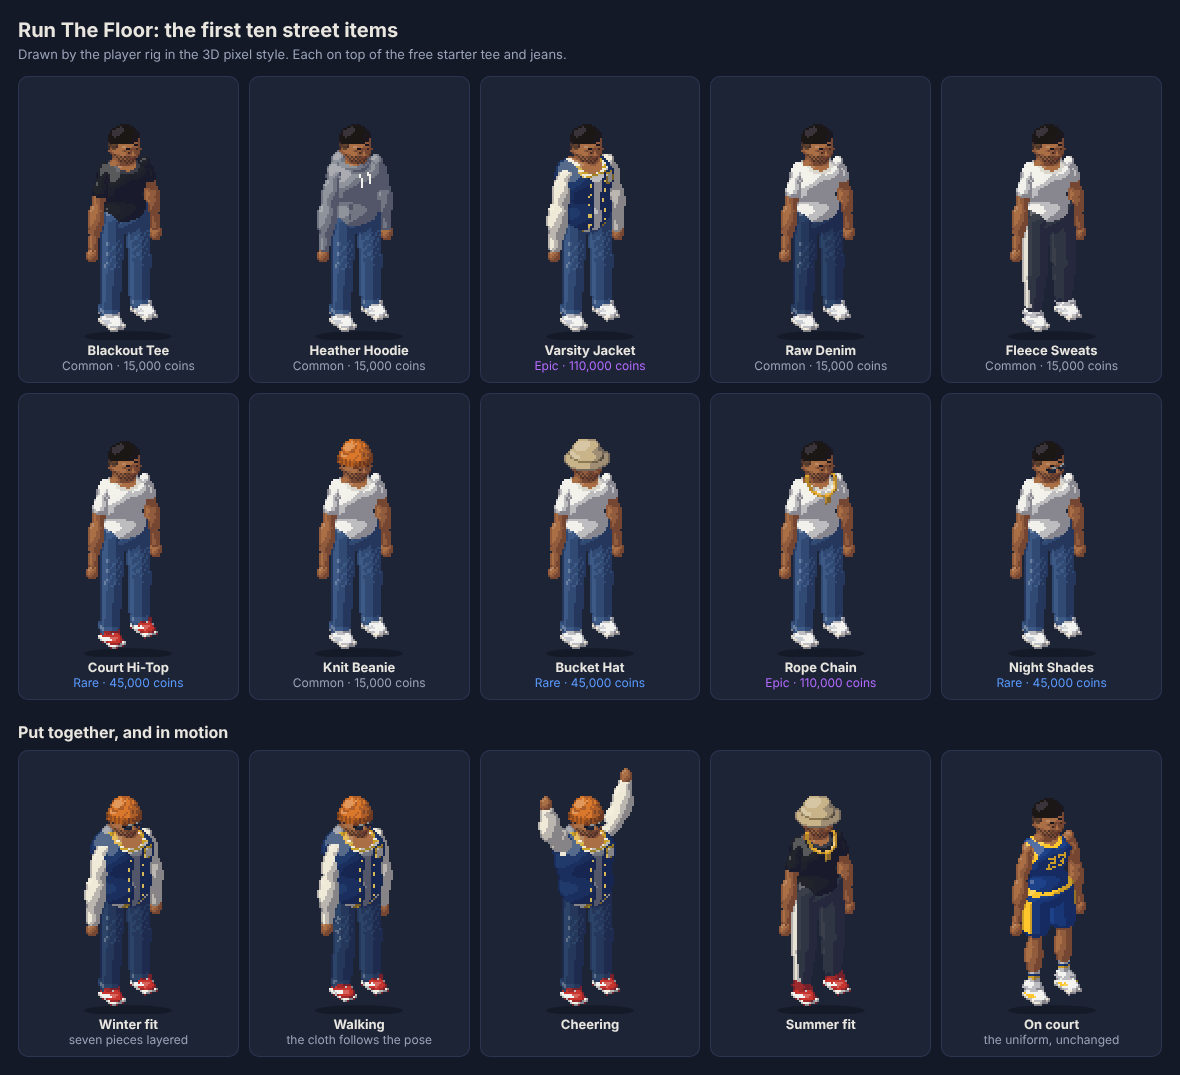
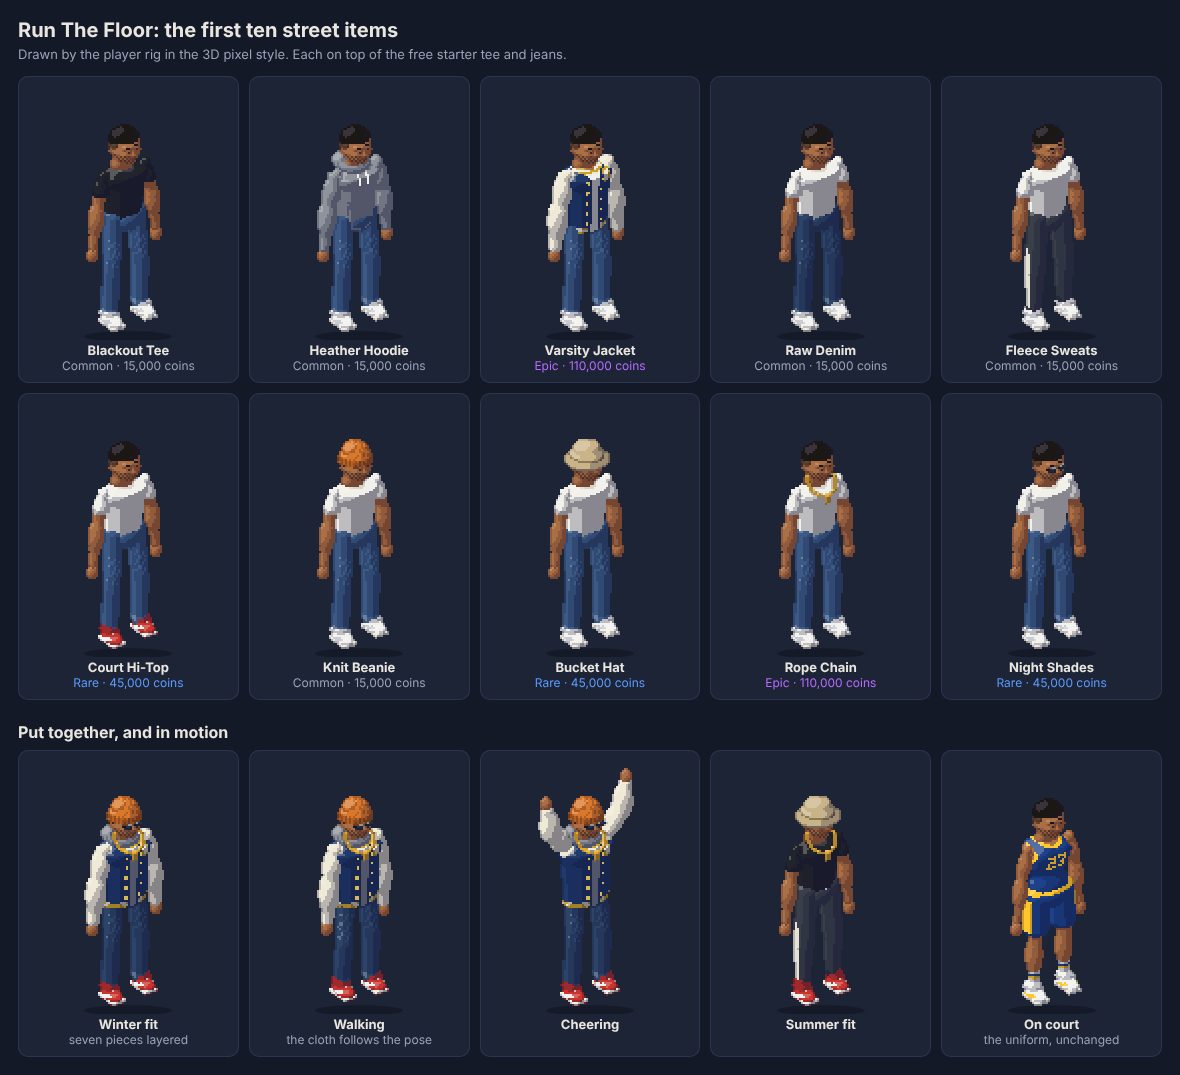
Street clothes hang like they do on an athlete
The first cut offset the body's own surface, so a tee clung to every muscle:
the pecs read as a bust, the waist pinched and the trouser seat flared wide.
A shirt is now an elliptic column tapering from the shoulders to narrow
hips, flat front to back, under a dome across the shoulders. The seat is
narrower than the shoulders and the legs are long and straight.

Claude-Session: https://claude.ai/code/session_014FJvSXcCp47nHbhTyqr2PJ

diff --git a/hoops/baller.js b/hoops/baller.js
@@ -794,9 +794,12 @@ function build(L, o, J){
   function smf(a, b, k){ return function(p){ return smin(a(p), b(p), k); }; }
   function streetTop(){ return (ST.top && ST.top.k) || 'tee'; }
   function streetLegF(G, s){
-    var kd = (ST.bottom && ST.bottom.k) || 'jeans', top = [G.hip[0] - s * 0.3, G.hip[1] - 2.2, 0];
-    if (kd === 'sweats') return uni([cone(top, G.kn, 3.55 + g * 0.26, 3.2 + g * 0.16), cone(G.kn, [G.ank[0], G.ank[1] - 0.5, G.ank[2]], 3.2 + g * 0.12, 2.15)]);
-    return uni([cone(top, G.kn, 3.25 + g * 0.25, 2.85 + g * 0.14), cone(G.kn, [G.ank[0], G.ank[1] + 0.4, G.ank[2]], 2.85 + g * 0.1, 2.6)]);
+    var kd = (ST.bottom && ST.bottom.k) || 'jeans', top = [G.hip[0] - s * 0.55, G.hip[1] - 2.2, 0];
+    /* an athlete's legs are long and lean: a straight leg from a narrow seat,
+       barely tapering. Cut wide, the thighs flared out past the hem of the
+       shirt and the figure read as curvy. */
+    if (kd === 'sweats') return uni([cone(top, G.kn, 2.85 + g * 0.3, 2.6 + g * 0.16), cone(G.kn, [G.ank[0], G.ank[1] - 0.5, G.ank[2]], 2.6 + g * 0.12, 1.95)]);
+    return uni([cone(top, G.kn, 2.6 + g * 0.3, 2.35 + g * 0.14), cone(G.kn, [G.ank[0], G.ank[1] + 0.4, G.ank[2]], 2.35 + g * 0.1, 2.25)]);
   }
   function streetLegMat(G, s){
     var kd = (ST.bottom && ST.bottom.k) || 'jeans';
@@ -817,8 +820,28 @@ function build(L, o, J){
       return 'btm';
     };
   }
+  /* CLOTH HANGS, IT DOES NOT CLING. Offsetting the body's own surface made a
+     tee follow every muscle under it: the pecs read as a bust, the waist
+     pinched in and the seat flared out, which is the silhouette of somebody
+     else. A shirt on a basketball player drops straight from broad shoulders
+     to the hem, so it is the chest's ellipse blended into a column the width
+     of the ribcage, carrying a heavy man's belly when he has one, and nothing
+     of the pecs, lats or shoulder blades. */
+  function dropF(off, hemY){
+    /* a V: an elliptic column whose width runs from the shoulders down to
+       narrow hips, flat front to back, under a dome across the shoulders */
+    var shX = (6.9 + bw * 0.8) * sw + Math.max(0, g) * 0.3, yT = C0[1] - 2.4 * ts, yB = hemY + 1.0;
+    var rxT = shX * 0.9 + off, rxB = cR[0] * 0.8 + off + g * 0.45, rzT = cR[2] * 0.88 + off * 0.8, rzB = cR[2] * 0.74 + off * 0.8 + Math.max(0, g) * 0.75;
+    var colF = function(p){
+      var t = clamp01((p[1] - yT) / (yB - yT)), rx = rxT + (rxB - rxT) * t, rz = rzT + (rzB - rzT) * t;
+      var e = Math.hypot((p[0] - CX) / rx, (p[2] + 0.2) / rz);
+      return Math.max((e - 1) * Math.min(rx, rz) * 0.9, yT - p[1]);
+    };
+    var dome = ell([CX, yT + 0.4, -0.3], [shX + off * 0.6, 2.4 * ts + off * 0.5, cR[2] * 0.82 + off * 0.8]);
+    return cut(smf(dome, colF, 1.6), function(q){ return q[1] - hemY; });
+  }
   function streetTorso(){
-    var kd = streetTop(), infl = kd === 'hoodie' ? 0.8 : 0.35, hemY = W0[1] + (kd === 'hoodie' ? 4.2 : 3.6) * ts;
+    var kd = streetTop(), infl = kd === 'hoodie' ? 0.7 : 0.3, hemY = W0[1] + (kd === 'hoodie' ? 4.2 : 3.6) * ts;
     var mk = function(y, dx, front){ var nd = front ? 1.0 : 0.3; return function(w){ var t = dx / w; return t < 1 ? 23.9 + nd * (1 - t * t) : -1; }; };
     add('torso', 'torso', function(p){
       var sx = p[0] - CX, dx = Math.abs(sx), y = 29.2 + (p[1] - C0[1]) / ts, front = p[2] > 0.6, neck = mk(y, dx, front);
@@ -832,12 +855,13 @@ function build(L, o, J){
         if (y > 33.2 && y < 37.4 && dx < 4.2) return (Math.abs(y - 33.2) < 0.42 || Math.abs(dx - (3.4 + (y - 33.2) * 0.2)) < 0.38) ? { m: 'top', dt: -1 } : 'top';
       }
       return 'top';
-    }, cut(function(q){ return torsoF(q) - infl; }, function(q){ return q[1] - hemY; }), [CX, (C0[1] + W0[1]) / 2 + 1, 0], 13 * Math.max(1, ts, sw) + Math.max(0, g));
+    }, dropF(infl, hemY), [CX, (C0[1] + W0[1]) / 2 + 1, 0], 13 * Math.max(1, ts, sw) + Math.max(0, g));
     /* the seat of the trousers, under the hem */
-    var sy0 = W0[1] - 0.4, shW = (6.2 + bw * 0.4) * sw + g * 0.6;
+    /* the seat is as narrow as an athlete's hips, narrower than his shoulders */
+    var sy0 = W0[1] - 0.4, shW = (4.9 + bw * 0.3) * sw + g * 0.55;
     var bk = (ST.bottom && ST.bottom.k) || 'jeans';
     add('seat', 'seat', function(p){ var y = p[1] - sy0; if (y < 0.9) return bk === 'jeans' ? { m: 'btm', dt: -1 } : 'btm2'; return 'btm'; },
-      cut(ell([CX, sy0 + 2.8 * ts, 0], [shW, 4.0 * ts, 4.4 + Math.max(0, g) * 0.45]), function(q){ return sy0 - q[1]; }), [CX, sy0 + 3 * ts, 0], 9 + Math.max(0, g));
+      cut(ell([CX, sy0 + 2.8 * ts, -0.2], [shW, 3.7 * ts, 3.8 + Math.max(0, g) * 0.45]), function(q){ return sy0 - q[1]; }), [CX, sy0 + 3 * ts, 0], 9 + Math.max(0, g));
     var out = ST.outer && ST.outer.k;
     if (out === 'varsity') {
       var oHem = W0[1] + 4.6 * ts;
@@ -854,7 +878,7 @@ function build(L, o, J){
         /* a chenille letter patch on the left chest */
         if (front && sx > 2.4 && sx < 5.0 && y > 25.6 && y < 28.8) return (sx < 2.8 || sx > 4.6 || y < 26.0 || y > 28.4) ? 'out3' : 'out2';
         return 'out1';
-      }, cut(function(q){ return torsoF(q) - (infl + 0.95); }, function(q){ return q[1] - oHem; }), [CX, (C0[1] + W0[1]) / 2 + 1, 0], 14 * Math.max(1, ts, sw) + Math.max(0, g));
+      }, dropF(infl + 0.95, oHem), [CX, (C0[1] + W0[1]) / 2 + 1, 0], 14 * Math.max(1, ts, sw) + Math.max(0, g));
     }
   }
   /* what an arm is wearing: its material, how far the cloth stands off it,
